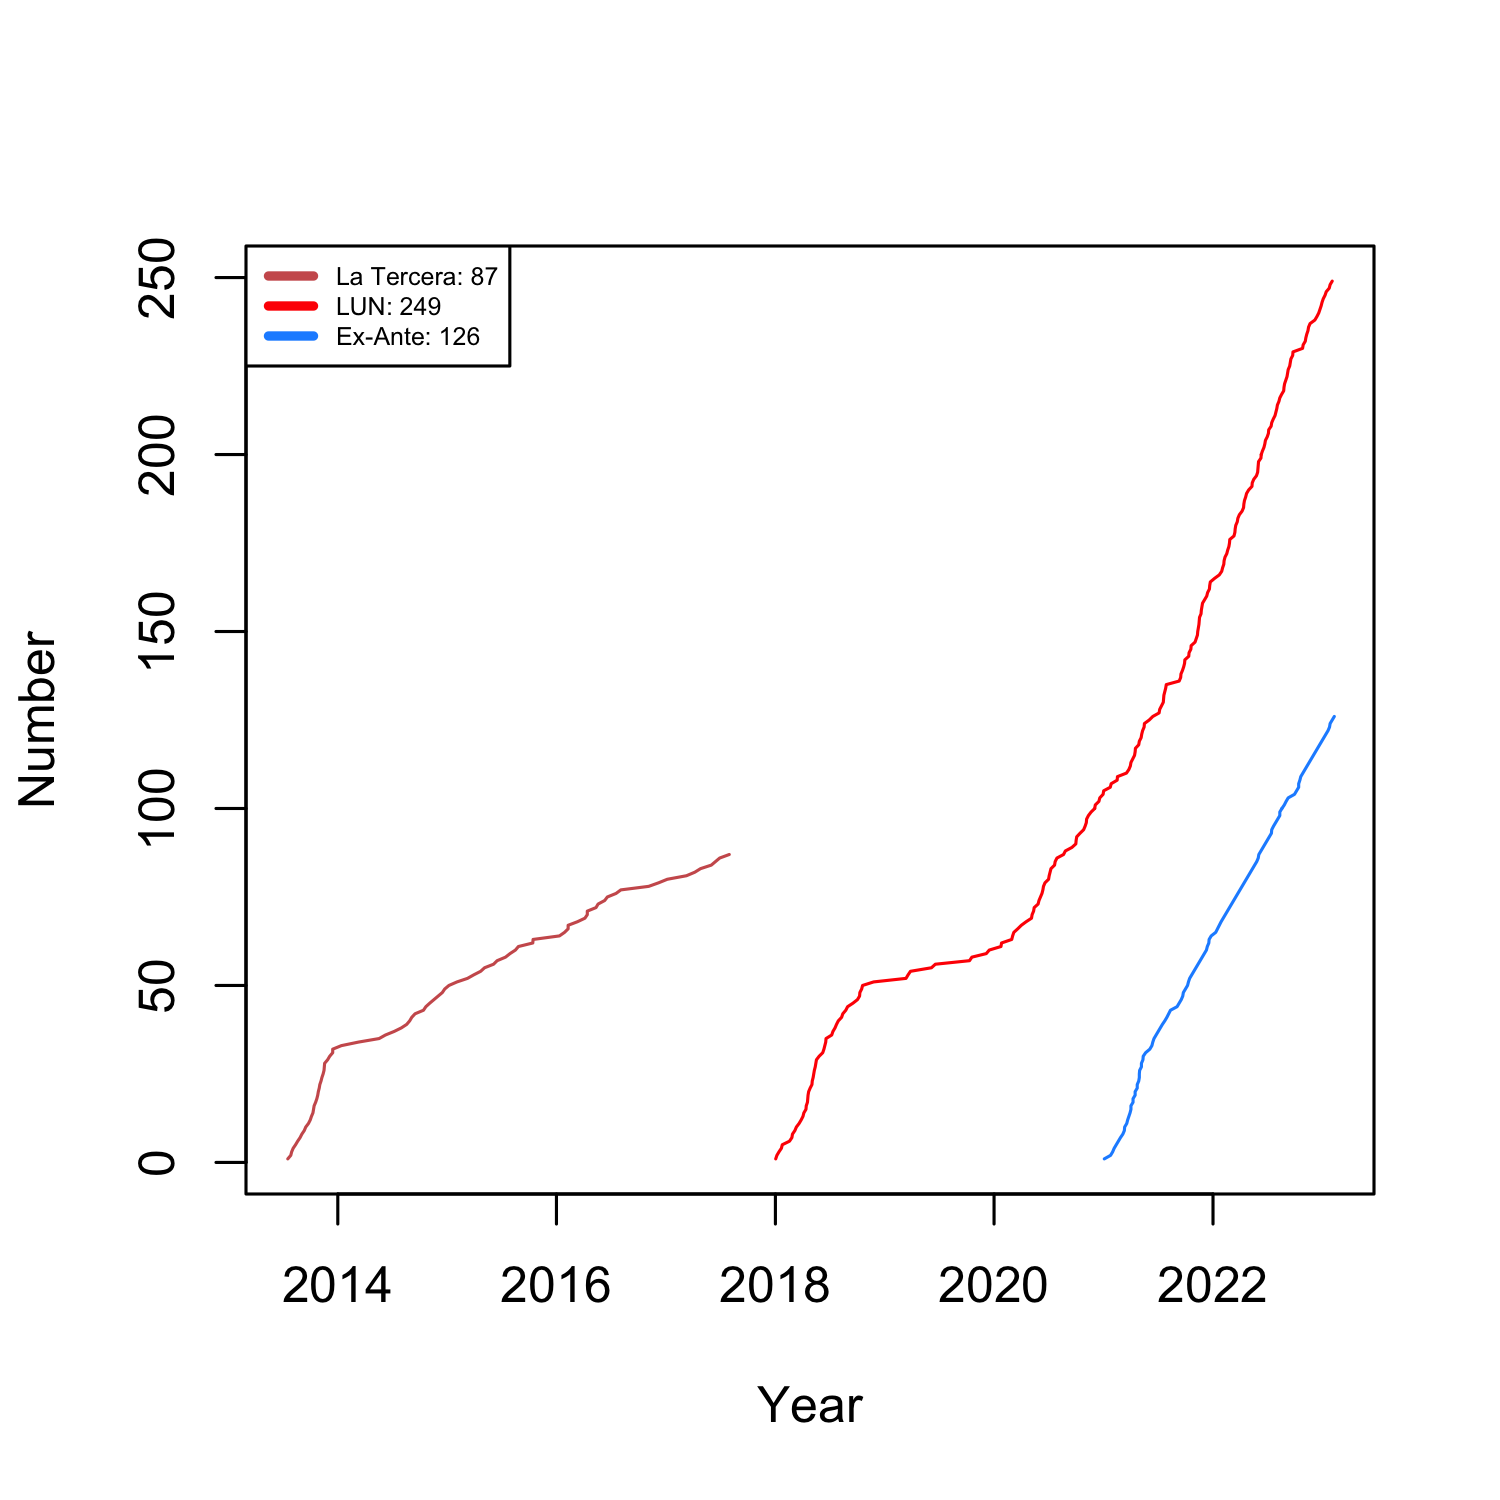
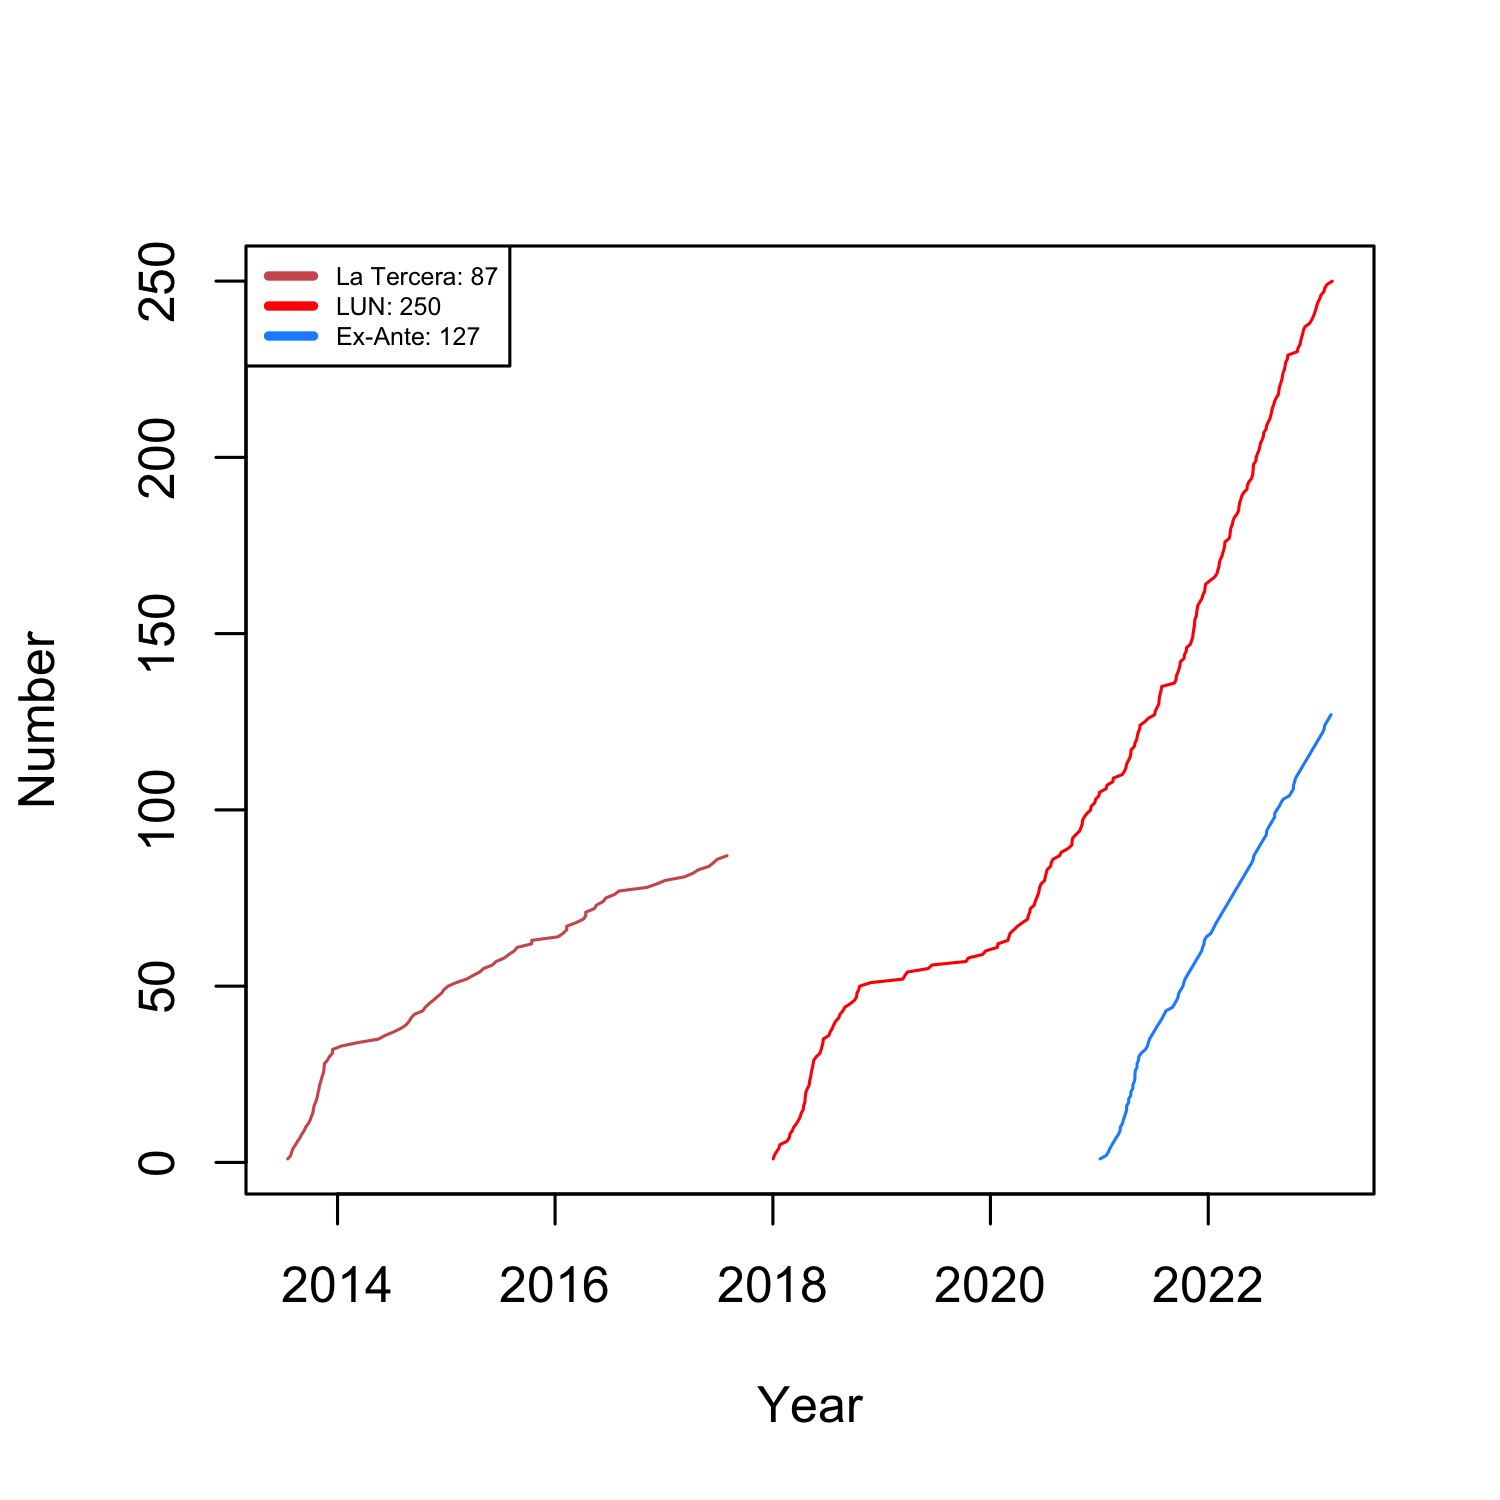
ss

diff --git a/columns.md b/columns.md
@@ -16,6 +16,7 @@ title: Columns
 
 [*Las Últimas Noticias*](https://www.lun.com)
 
+- 20230221 - La frontera
 - 20230203 - Intención versus ejecución
 - 20230127 - Trapos al sol
 - 20230124 - Chambonada
@@ -265,6 +266,8 @@ title: Columns
 
 [*Ex-Ante*](https://www.ex-ante.cl)
 
+- 20230217 - Negocios y delincuencia en Santiago Centro
+- 20230210 - El regreso de la “vieja guardia”
 - 20230203 - El debate de las dos listas
 - 20230127 - El desdén, Bachelet y el Frente Amplio
 - 20230125 - El problema de la política exterior
